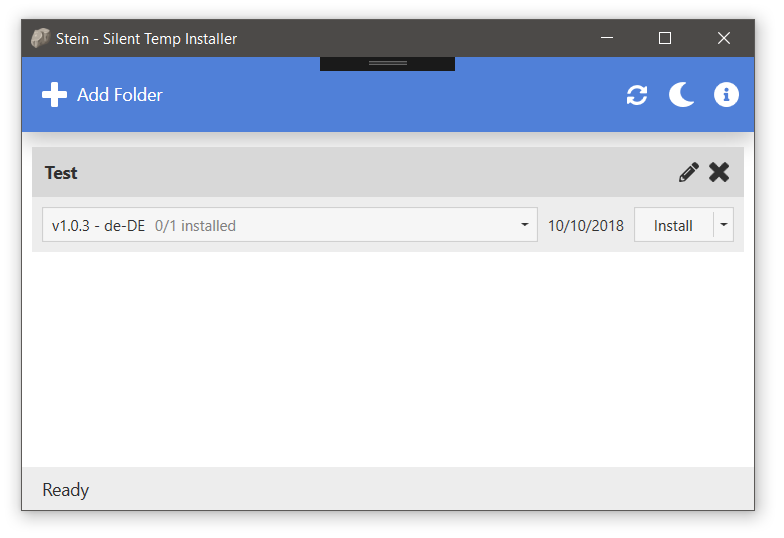
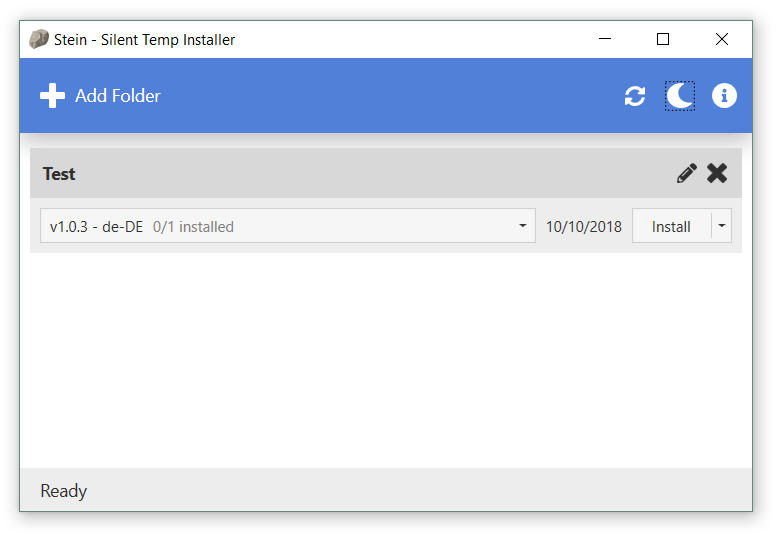
Update Screenshots and add dark mode screenshot

Changed region(s): [[0.0, 0.0298, 0.9871, 0.9534], [0.0617, 0.3873, 0.3085, 0.4469], [0.0617, 0.149, 0.2159, 0.2086]]

diff --git a/README.md b/README.md
@@ -3,13 +3,21 @@
 ![.NET Framework version: >= 4.7.1](https://img.shields.io/badge/.NET%20Framework-%3E%3D%204.7.1-green.svg)
 [![GitHub license](https://img.shields.io/github/license/nkristek/Stein.svg)](https://github.com/nkristek/Stein/blob/master/LICENSE)
 
-This application makes it easier to install, uninstall or reinstall multiple MSI-installers. It can be used in an environment, where there are regular builds of an application which are located inside a defined folder structure.
+This application makes it easier to install, uninstall or reinstall multiple MSI-installers. 
+It was built for an environment with regular builds of an application.
 
 **Please note:** This application needs administrator privileges to operate on installers without UI.
+
+![Screenshot](Docs/Screenshot.PNG)
+
+Support for dark mode
+
+![Screenshot](Docs/Screenshot_dark.PNG)
 
 ## Supported folder structure
 
 Installers are bundled by folder and by culture (ProductLanguage property on the MSI-file).
+
 The supported folder structure is:
 
 - selected folder
@@ -38,23 +46,27 @@ It will generate 4 installer bundles:
   - build02/installer1_deDE.msi
   - build02/installer2_deDE.msi
 
-![Screenshot](Docs/Screenshot.PNG)
+When using the Install/Uninstall action, installers with the same name (Name property on the MSI-file) will be ignored (only one will be installed/uninstalled). 
 
 ## Available options
 
 ### No UI during install
 
 It will start installers with the "/QN" option which means it will be installed in the background with default options.
-When this option is set, the Disable reboot after installation option should be strongly considered especially when operating with multiple installers at the same time.
+When this option is set, the [Disable reboot after installation](#disable-reboot-after-installation) option should be strongly considered especially when operating with multiple installers at once.
 
-### Disable reboot after installtion
+### Disable reboot after installation
 
-It will start installers with the "/norestart" option which means the installer should not automatically after installation. 
+It will start installers with the "/norestart" option which means the installer should not automatically reboot the system after installation. 
 
 ### Install log
 
-It will start installers with the "/L*V LOGPATH" option which means the installer should extensively log all operations.
+It will start installers with the "/L*V LOGPATH" option which means the installer should log all operations.
 You can optionally set a limit on how many log files should be kept. After an operation, the oldest log files will be deleted.
+
+### Additional arguments
+
+When performing a custom operation you can define additional arguments for each installer. 
 
 ## Contribution
 
@@ -75,4 +87,4 @@ This application depends on the following libraries:
 - [Windows-API-Code-Pack](https://github.com/aybe/Windows-API-Code-Pack-1.1)
 - [Wix Toolset](http://wixtoolset.org/)
 
-The icons used by this application come from [fontawesome](https://fontawesome.com) ([licence](https://fontawesome.com/license)) and are modified to be used in a WPF environment.
+The icons used by this application are from [fontawesome](https://fontawesome.com) ([licence](https://fontawesome.com/license)) and are modified to be used in a WPF environment.
